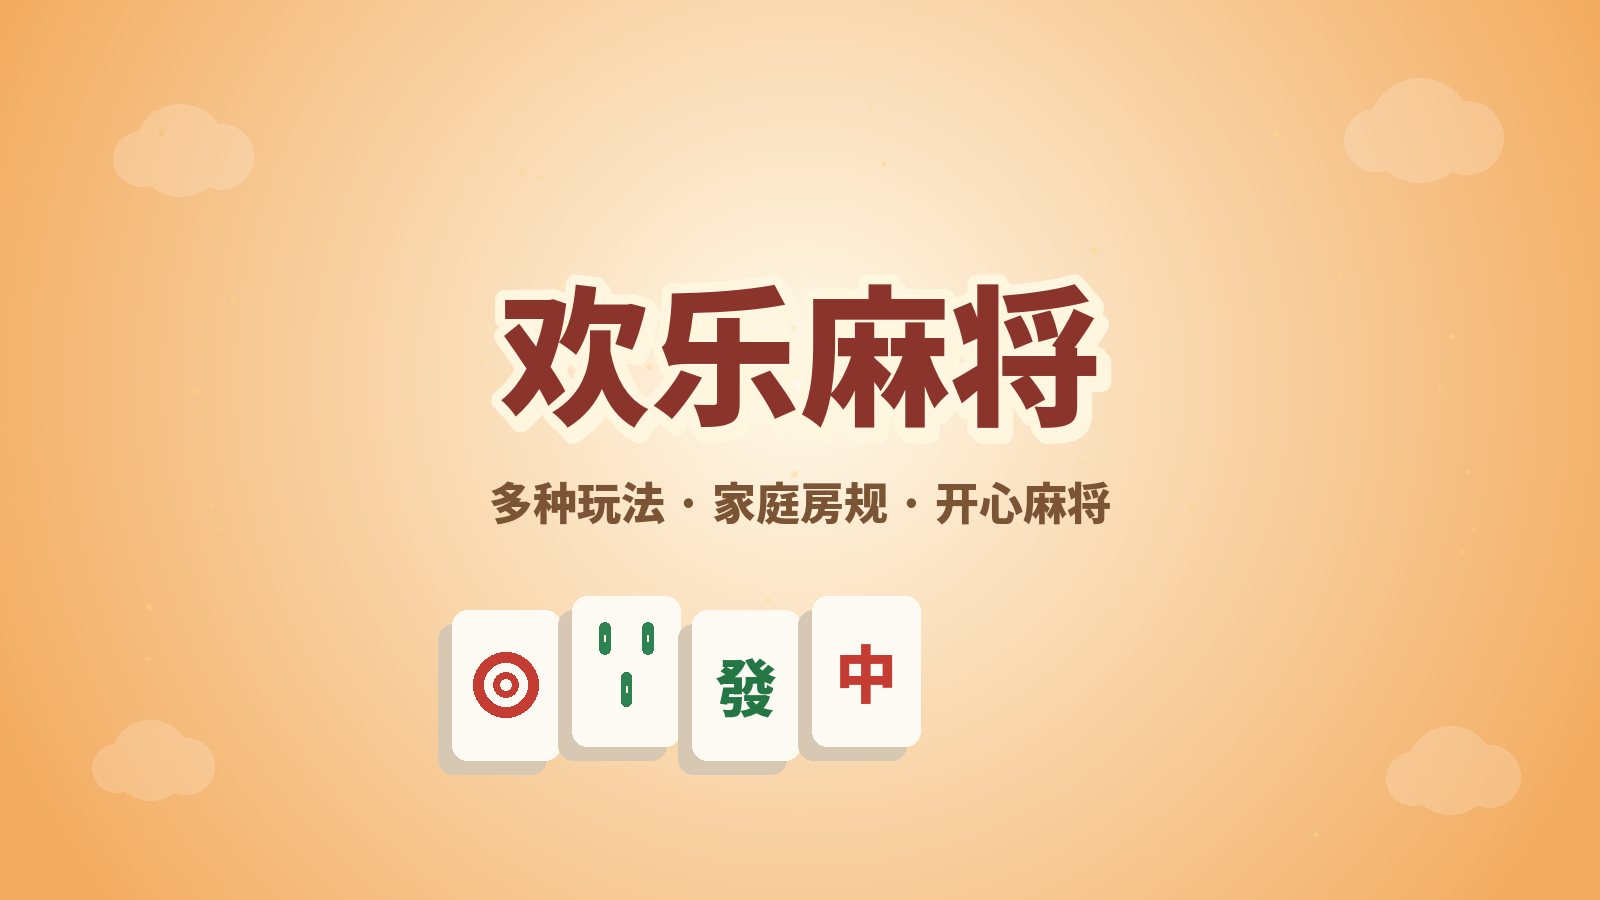
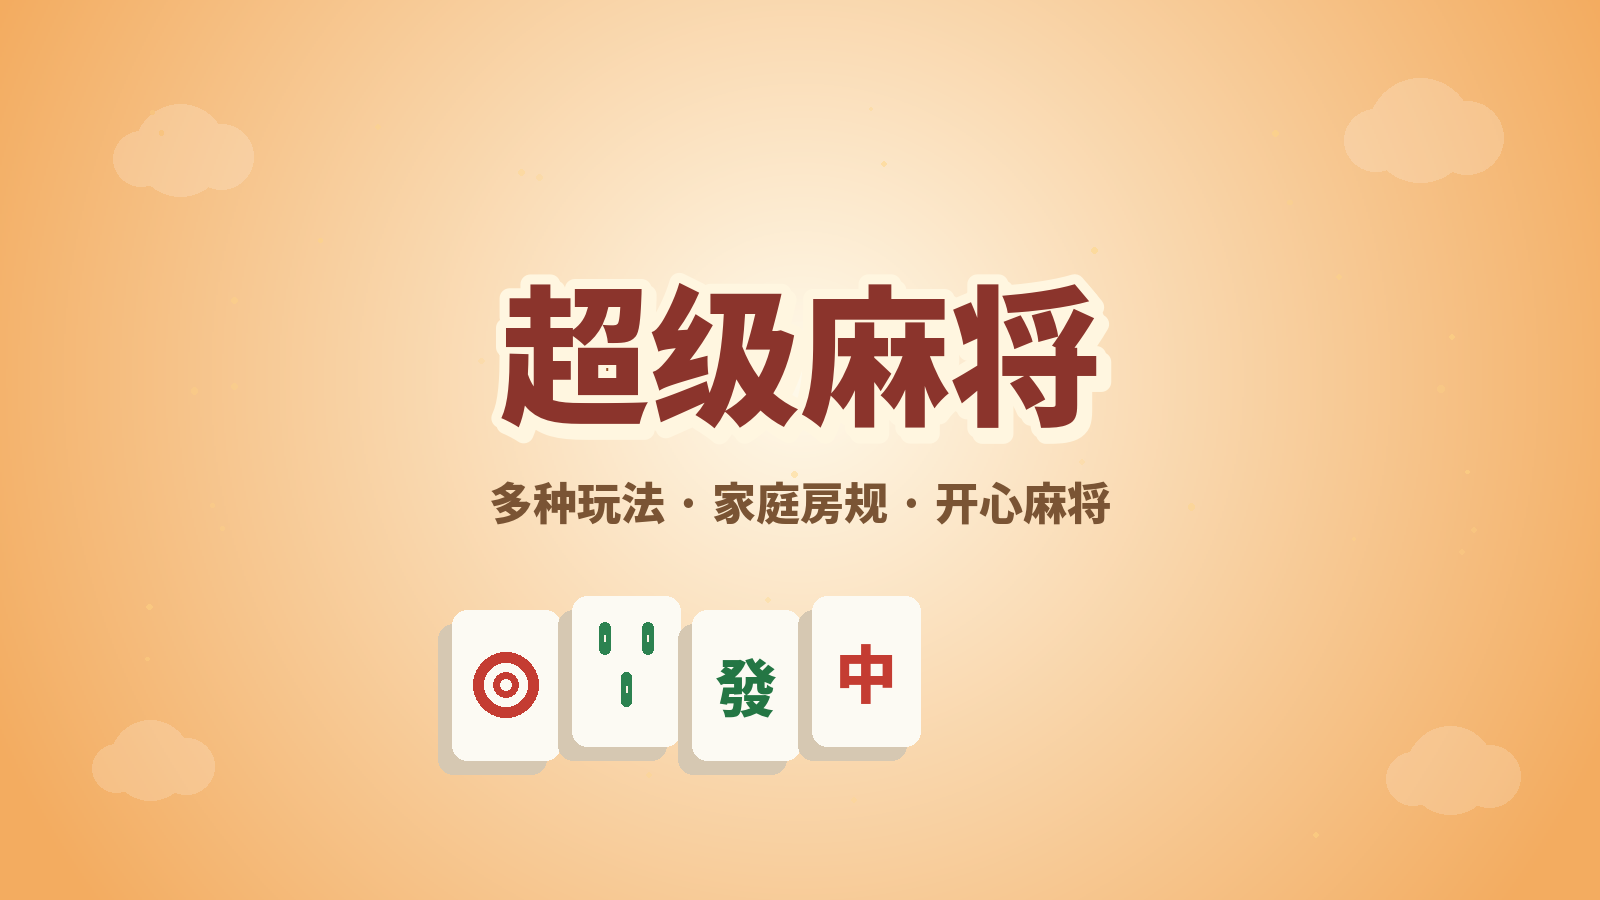
feat(xiaoshan): 开局积分独立成行+摸牌重排仅首刷，启动图改超级麻将
- 建房萧山积分行原挂在 4 列开关网格内被压成 339px 窄格、与爆头开关
  挤同一排无法辨认；改挂规则区大容器（VerticalLayoutGroup）独立成行，
  显示在萧山开关排正下方
- 萧山翻财摸牌重排改为每局仅第一次摸牌后执行一次，后续摸牌保持
  新张飞入动画，不再整手重排
- 启动画面标题由「欢乐麻将」改为「超级麻将」（仅换贴图内容，guid 不变）

Changed region(s): [[0.3125, 0.3111, 0.5, 0.4978]]

diff --git a/open_mahjong_unity/Assets/Scripts/GameScene/CanvasManager/GameCanvas_Changehand.cs b/open_mahjong_unity/Assets/Scripts/GameScene/CanvasManager/GameCanvas_Changehand.cs
@@ -7,6 +7,10 @@ using UnityEngine;
 
 public partial class GameCanvas{
 
+    // 萧山翻财：每局只在第一次摸牌后重排一次（白板按财神本牌落位），
+    // 之后摸牌保持「新张飞入摸牌位」的自然动画，不再整手重排。
+    private bool xiaoshanFirstDrawRearrangeDone;
+
     // 手牌处理
     public void ChangeHandCards(string ChangeType,int tileId,int[] TilesList,int? cut_tile_index){
         // 空闲时立即接受自由摸牌；视觉收拢在后台追随最新布局，不积压后续摸牌。
@@ -105,6 +109,7 @@ public partial class GameCanvas{
             if (TilesList == null){
                 yield break;
             }
+            xiaoshanFirstDrawRearrangeDone = false; // 新局重新计第一次摸牌
             for (int i = 0; i < TilesList.Length; i++){
                 GameObject cardObj = Instantiate(tileCardPrefab, handCardsContainer);
                 TileCard tileCard = cardObj.GetComponent<TileCard>();
@@ -176,9 +181,10 @@ public partial class GameCanvas{
             // 这样松手复位/换位时仍会保留这张摸牌及其独立摸牌区位置。
             handCardDragController?.RegisterIncomingDrawDuringActivePress(tileCard, targetPosition.x);
             yield return StartCoroutine(AnimateGetCard(cardRect, targetPosition));
-            // 萧山翻财：摸牌并入排序（白板按财神本牌落位、财神实体排最右），
-            // 保留摸切语义标记，出牌判定不受影响。
-            if (TileIdOrder.XiaoshanJokerActive && !IsHandRecordPlayback()) {
+            // 萧山翻财：仅本局第一次摸牌后重排一次（白板按财神本牌落位、财神实体排最右），
+            // 保留摸切语义标记；后续摸牌不再整手重排，保持摸牌动画自然。
+            if (TileIdOrder.XiaoshanJokerActive && !IsHandRecordPlayback() && !xiaoshanFirstDrawRearrangeDone) {
+                xiaoshanFirstDrawRearrangeDone = true;
                 yield return StartCoroutine(RearrangeHandCardsWithAnimation(clearMoqieMark: false));
             }
             if (NormalGameStateManager.Instance.IsSelfActionRequired) {
@@ -194,8 +200,9 @@ public partial class GameCanvas{
             tileCard.SetTile(tileId, true);
             int handCardCount = handCardsContainer.childCount - 1;
             tileCard.handSortIndex = handCardCount;
-            // 萧山翻财：同步重排（无独立摸牌动画路径，直接布局）。
-            if (TileIdOrder.XiaoshanJokerActive && !IsHandRecordPlayback()) {
+            // 萧山翻财：同步重排（无独立摸牌动画路径，直接布局），同样仅限本局第一次。
+            if (TileIdOrder.XiaoshanJokerActive && !IsHandRecordPlayback() && !xiaoshanFirstDrawRearrangeDone) {
+                xiaoshanFirstDrawRearrangeDone = true;
                 yield return StartCoroutine(RearrangeHandCardsWithAnimation(clearMoqieMark: false));
             } else {
                 LayoutHandCardsFromCurrentOrder();
@@ -225,8 +232,9 @@ public partial class GameCanvas{
                     + childRect.rect.width * (1f - childRect.pivot.x));
             }
             cardRect.anchoredPosition = GetHandCardPosition(cardRect, rightEdge);
-            // 萧山翻财：杠后补牌同样并入排序，白板/财神落位一致。
-            if (TileIdOrder.XiaoshanJokerActive && !IsHandRecordPlayback()) {
+            // 萧山翻财：杠后补牌同样并入排序，白板/财神落位一致；仅限本局第一次摸牌。
+            if (TileIdOrder.XiaoshanJokerActive && !IsHandRecordPlayback() && !xiaoshanFirstDrawRearrangeDone) {
+                xiaoshanFirstDrawRearrangeDone = true;
                 yield return StartCoroutine(RearrangeHandCardsWithAnimation(clearMoqieMark: false));
             }
             GameRecordManager.Instance?.ReapplySelf2DHandChongOverlay();

diff --git a/open_mahjong_unity/Assets/Scripts/Room/CreateRoomPanel/CreatePanel.XiaoshanOptions.cs b/open_mahjong_unity/Assets/Scripts/Room/CreateRoomPanel/CreatePanel.XiaoshanOptions.cs
@@ -19,23 +19,23 @@ public partial class CreatePanel {
         if (XiaoshanScoreRow == null) {
             XiaoshanScoreRow = new GameObject("XiaoshanScoreRow",
                 typeof(RectTransform), typeof(HorizontalLayoutGroup), typeof(LayoutElement));
-            // 锚定到萧山开关行（「有财神必须爆头」所在容器）：萧山模式下开关行始终可见，
-            // 而「和牌方式」的父容器会整体隐藏，挂在后者下面会导致积分下拉不显示。
-            Transform anchor = XiaoshanBaotouToggle != null
+            // 锚定到规则区大容器（开关网格行的父级，VerticalLayoutGroup）独立成行：
+            // 开关行是 4 列自适应网格（每格约 339px），行容器塞进去会被压成一个窄格，
+            // 和「有财神必须爆头」挤在同一排而无法辨认；独立成行则显示在开关排正下方。
+            Transform gridRow = XiaoshanBaotouToggle != null
                 ? XiaoshanBaotouToggle.transform.parent
                 : HepaiWayPanel != null ? HepaiWayPanel.transform.parent : null;
+            Transform anchor = gridRow != null && gridRow.parent != null ? gridRow.parent : null;
             if (anchor != null) XiaoshanScoreRow.transform.SetParent(anchor, false);
             HorizontalLayoutGroup layout = XiaoshanScoreRow.GetComponent<HorizontalLayoutGroup>();
             layout.spacing = 12f;
             layout.childControlWidth = layout.childControlHeight = true;
             layout.childForceExpandWidth = true;
             layout.childForceExpandHeight = false;
-            XiaoshanScoreRow.GetComponent<LayoutElement>().minHeight = 44f;
-            if (XiaoshanBaotouToggle != null) {
-                // 放在萧山开关行之前（积分/封顶在开关上方）。
-                XiaoshanScoreRow.transform.SetSiblingIndex(XiaoshanBaotouToggle.transform.GetSiblingIndex());
-            } else if (HepaiWayPanel != null) {
-                XiaoshanScoreRow.transform.SetSiblingIndex(HepaiWayPanel.transform.GetSiblingIndex() + 1);
+            XiaoshanScoreRow.GetComponent<LayoutElement>().minHeight = 64f;
+            if (gridRow != null) {
+                // 插到开关网格行之后（开局积分/倍率封顶显示在萧山开关排的下一行）。
+                XiaoshanScoreRow.transform.SetSiblingIndex(gridRow.GetSiblingIndex() + 1);
             }
         }
         XiaoshanStartingScorePanel = EnsureXiaoshanDropdown(XiaoshanStartingScorePanel, "XiaoshanStartingScore", "开局积分");
